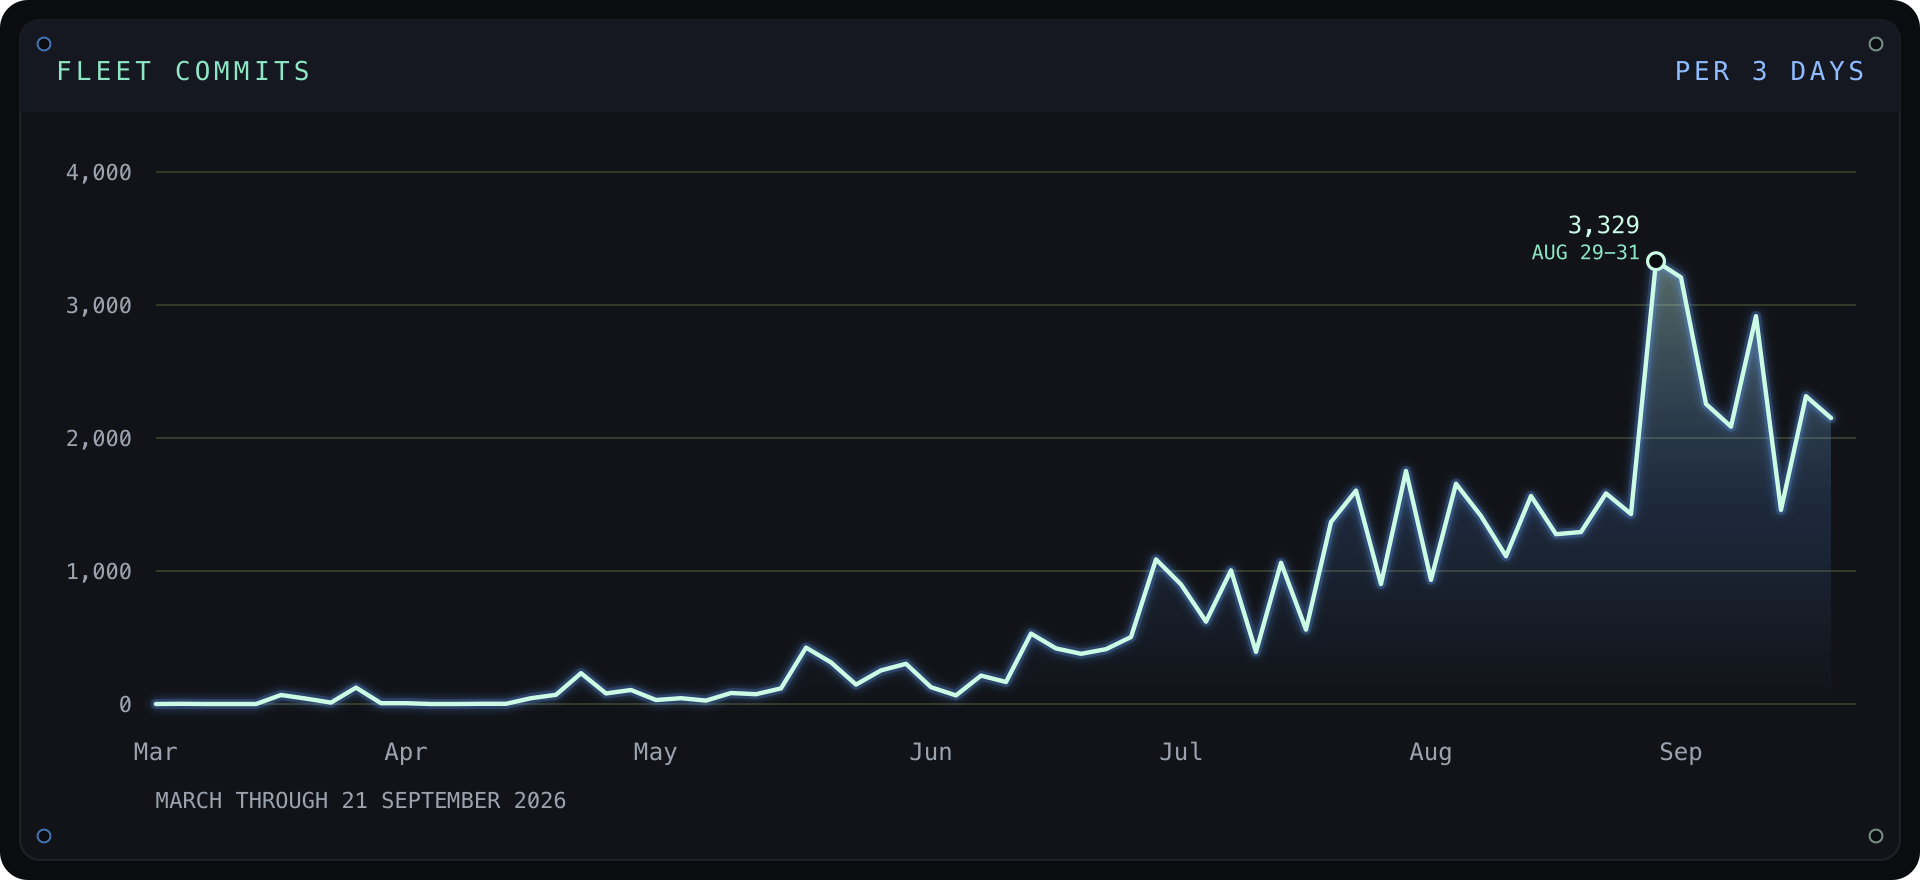
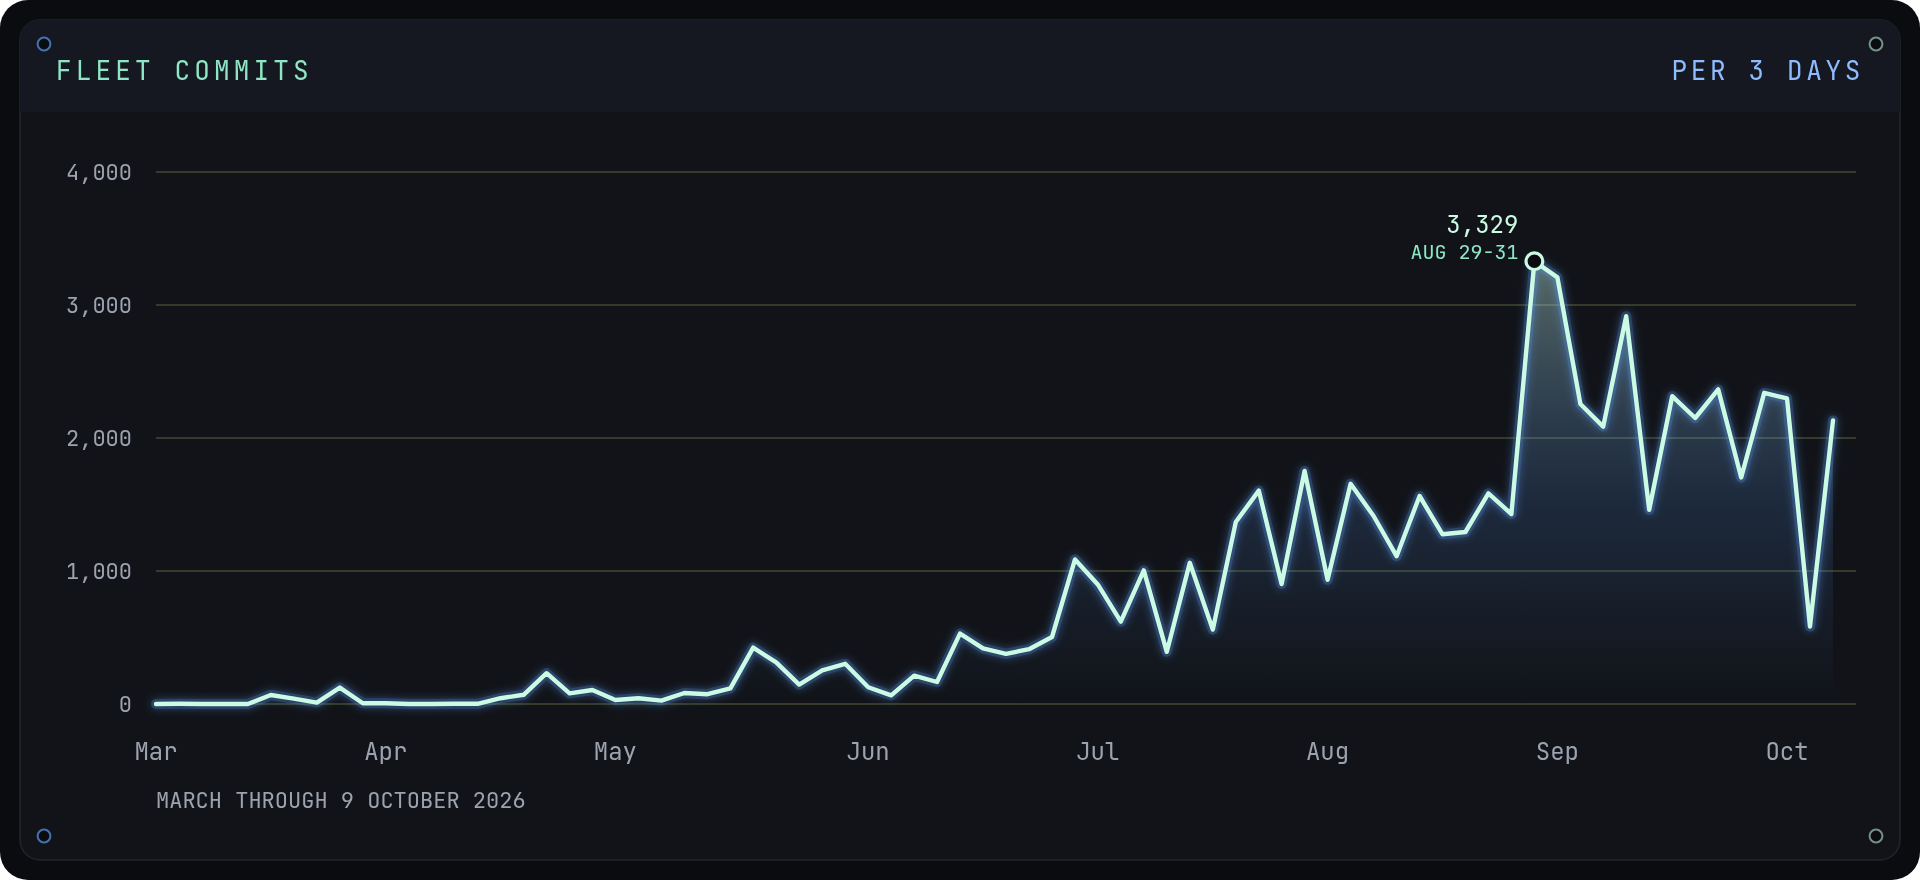
commit chart: fleet commits per three days, brought forward to 9 October 2026
The chart on the agent infrastructure page and in this README (which GitHub shows as the profile page) ended
at 21 September. It now runs from March through 9 October 2026, the last three-day bin that was complete when
it was drawn; the bin in progress is left out so the right-hand point never reads low. The peak is unchanged:
3,329 from 29 August to 31 August.

Same definition as before, recovered from the old chart: commits on main, placed on the New York day of
their committer time, in three-day bins from 2 March. Read back out of the old SVG, all 68 of its points
agree with that definition (none differs by more than the SVG's own rounding).

Changed: the SVG and the PNG (same design, an Oct tick added), the image alt text and both social-card alt
texts on the page, the cache marker on the SVG link (v=2 to v=3), the two README lines, and the image title
in the sitemap.

Disclosure-review: no new mechanism; the seven pages this push adds restate already-published work. About, data, notes (two pages), the GENIUS Act tracker and the recommendation index are site information and policy research drawn from the published letters and public rulemakings; the patents page carries the list of filed applications (37 in 27 families) that was on the home page. Every sentence on them that the live site does not already carry was read on 2026-10-12; none describes how a mechanism works.

Tokenization Systems - Claude Opus 5.5 <zach@tokenization.systems>

diff --git a/agent-infrastructure/index.html b/agent-infrastructure/index.html
@@ -53,7 +53,7 @@
   <meta property="og:image:type" content="image/png" />
   <meta property="og:image:width" content="1920" />
   <meta property="og:image:height" content="880" />
-  <meta property="og:image:alt" content="Fleet commits per three days, March through 21 September 2026. Peak 3,329 from 29 August to 31 August." />
+  <meta property="og:image:alt" content="Fleet commits per three days, March through 9 October 2026. Peak 3,329 from 29 August to 31 August." />
   <link rel="canonical" href="https://tokenization.systems/agent-infrastructure/" />
 
   <meta name="twitter:card" content="summary_large_image" />
@@ -61,7 +61,7 @@
   <meta name="twitter:title" content="Agent Infrastructure" />
   <meta name="twitter:description" content="An operating layer for AI agent fleets: provenance for shared work, coordination that survives the agent, controls graded by outcome. Since March 2026." />
   <meta name="twitter:image" content="https://tokenization.systems/agent-infrastructure/commits-per-3-days.png" />
-  <meta name="twitter:image:alt" content="Fleet commits per three days, March through 21 September 2026. Peak 3,329 from 29 August to 31 August." />
+  <meta name="twitter:image:alt" content="Fleet commits per three days, March through 9 October 2026. Peak 3,329 from 29 August to 31 August." />
   <meta name="twitter:creator" content="@CryptoZach" />
 
   <link rel="icon" href="/Publication-Images/Zachcoin-32.png" type="image/png" sizes="32x32" />
@@ -384,7 +384,7 @@
           </article>
         </div>
         <figure class="ai-commit-chart">
-          <img src="/agent-infrastructure/commits-per-3-days.svg?v=2" width="960" height="440" alt="Commits per three days, March through 21 September 2026. Fleet workload. Peak 3,329 from 29 August to 31 August.">
+          <img src="/agent-infrastructure/commits-per-3-days.svg?v=3" width="960" height="440" alt="Commits per three days, March through 9 October 2026. Fleet workload. Peak 3,329 from 29 August to 31 August.">
         </figure>
         <details class="ai-method">
           <summary>Definitions, counting rules, and prior values</summary>

diff --git a/README.md b/README.md
@@ -9,9 +9,9 @@ The live site is [tokenization.systems](https://tokenization.systems).
 
 ## Fleet commits
 
-Commits per three days, March through 21 September 2026. The series is fleet workload. Peak 3,329 from 29 August to 31 August.
+Commits per three days, March through 9 October 2026. The series is fleet workload. Peak 3,329 from 29 August to 31 August.
 
-![Fleet commits per three days, March through 21 September 2026. Peak 3,329 from 29 August to 31 August.](agent-infrastructure/commits-per-3-days.png)
+![Fleet commits per three days, March through 9 October 2026. Peak 3,329 from 29 August to 31 August.](agent-infrastructure/commits-per-3-days.png)
 
 The same chart is on the [agent infrastructure](https://tokenization.systems/agent-infrastructure/) page, under the system scale section.
 
